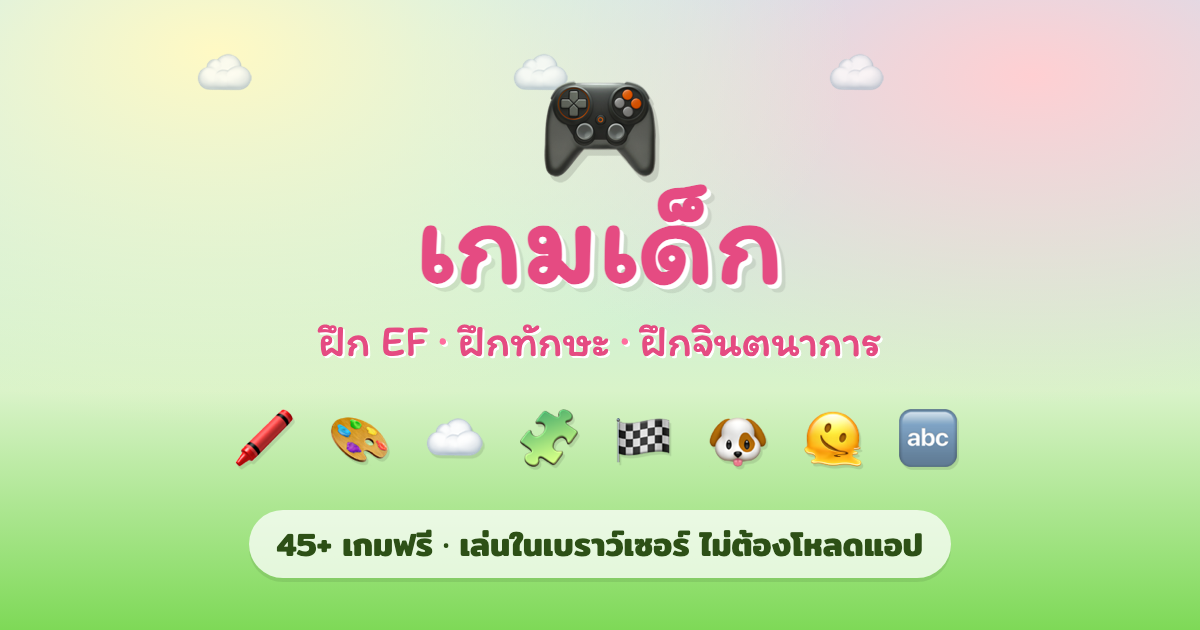
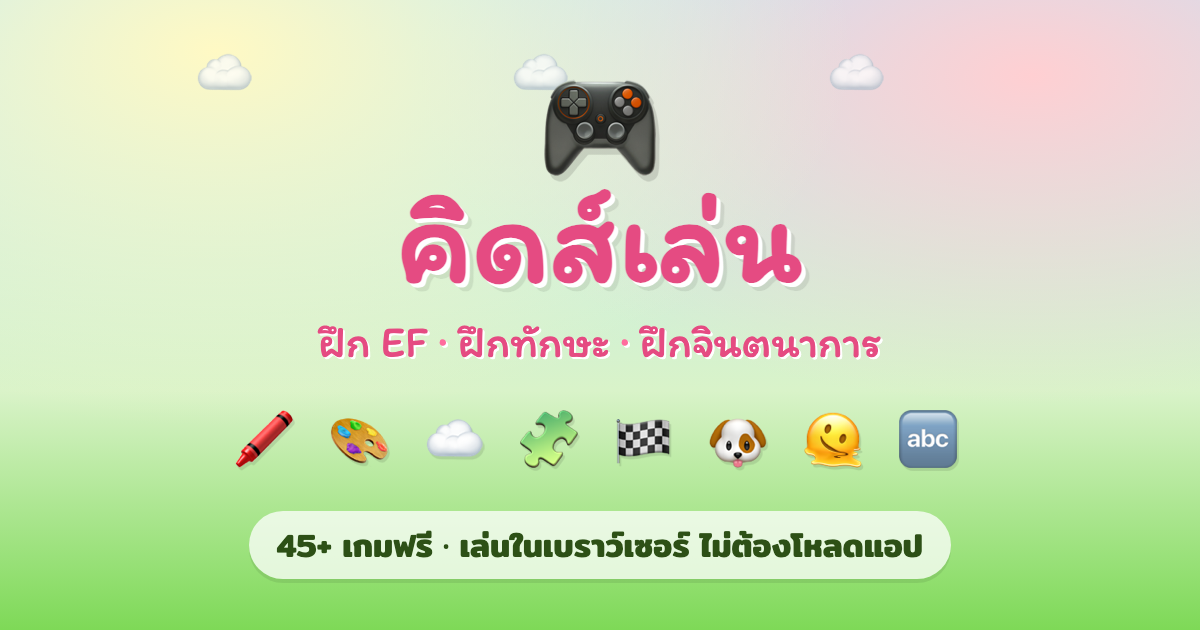
name the hub "คิดส์เล่น" (was placeholder "เกมเด็ก")
- index.html: title, hero <h1>, apple-mobile-web-app-title, and OG/Twitter
  (og:title, og:site_name, og:image:alt, twitter:title) -> คิดส์เล่น.
- manifest: name + short_name -> คิดส์เล่น.
- all 45 game <title>s: "— เกมสำหรับเด็ก" -> "— คิดส์เล่น" (brands every page).
- icons/og-cover.png: re-rendered share card with the new name.
- CLAUDE.md: record the decision.

sw.js: CACHE -> v77.

diff --git a/index.html b/index.html
@@ -3,27 +3,27 @@
 <head>
 <meta charset="UTF-8">
 <meta name="viewport" content="width=device-width, initial-scale=1.0, user-scalable=no, viewport-fit=cover">
-<title>🎮 เกมเด็ก — ฝึก EF ฝึกทักษะ ฝึกจินตนาการ</title>
+<title>🎮 คิดส์เล่น — ฝึก EF ฝึกทักษะ ฝึกจินตนาการ</title>
 <meta name="description" content="รวมเกมสำหรับเด็กไทย ฝึก EF (Executive Function) ฝึกทักษะ ฝึกจินตนาการ ฟรี เล่นในเบราว์เซอร์ ไม่ต้องโหลดแอป">
 <meta name="theme-color" content="#ff6b9d">
 <meta name="apple-mobile-web-app-capable" content="yes">
 <meta name="apple-mobile-web-app-status-bar-style" content="default">
-<meta name="apple-mobile-web-app-title" content="เกมเด็ก">
+<meta name="apple-mobile-web-app-title" content="คิดส์เล่น">
 <meta name="mobile-web-app-capable" content="yes">
 
 <meta property="og:type" content="website">
-<meta property="og:title" content="🎮 เกมเด็ก — ฝึก EF ฝึกทักษะ ฝึกจินตนาการ">
+<meta property="og:title" content="🎮 คิดส์เล่น — ฝึก EF ฝึกทักษะ ฝึกจินตนาการ">
 <meta property="og:description" content="รวมเกมสำหรับเด็กไทย ฝึก EF (Executive Function) ฝึกทักษะ ฝึกจินตนาการ ฟรี เล่นในเบราว์เซอร์ ไม่ต้องโหลดแอป">
 <meta property="og:url" content="https://leonlek.github.io/kid-mate/">
 <meta property="og:locale" content="th_TH">
-<meta property="og:site_name" content="เกมเด็ก">
+<meta property="og:site_name" content="คิดส์เล่น">
 <meta property="og:image" content="https://leonlek.github.io/kid-mate/icons/og-cover.png">
 <meta property="og:image:type" content="image/png">
 <meta property="og:image:width" content="1200">
 <meta property="og:image:height" content="630">
-<meta property="og:image:alt" content="เกมเด็ก — รวมเกมสำหรับเด็กไทย 45+ เกมฟรี">
+<meta property="og:image:alt" content="คิดส์เล่น — รวมเกมสำหรับเด็กไทย 45+ เกมฟรี">
 <meta name="twitter:card" content="summary_large_image">
-<meta name="twitter:title" content="🎮 เกมเด็ก — ฝึก EF ฝึกทักษะ ฝึกจินตนาการ">
+<meta name="twitter:title" content="🎮 คิดส์เล่น — ฝึก EF ฝึกทักษะ ฝึกจินตนาการ">
 <meta name="twitter:description" content="รวมเกมสำหรับเด็กไทย ฝึก EF ฝึกทักษะ ฝึกจินตนาการ ฟรี เล่นในเบราว์เซอร์ ไม่ต้องโหลดแอป">
 <meta name="twitter:image" content="https://leonlek.github.io/kid-mate/icons/og-cover.png">
 
@@ -258,7 +258,7 @@
 <body>
   <main class="hub">
     <header class="hero">
-      <h1>🎮 เกมเด็ก</h1>
+      <h1>🎮 คิดส์เล่น</h1>
       <div class="tagline">ฝึก EF<span class="dot">·</span>ฝึกทักษะ<span class="dot">·</span>ฝึกจินตนาการ</div>
       <p>เลือกหมวดที่อยากเล่น</p>
     </header>

diff --git a/crayon/index.html b/crayon/index.html
@@ -3,7 +3,7 @@
 <head>
 <meta charset="UTF-8">
 <meta name="viewport" content="width=device-width, initial-scale=1.0, user-scalable=no, viewport-fit=cover">
-<title>🖍 สมุดระบายสี — เกมสำหรับเด็ก</title>
+<title>🖍 สมุดระบายสี — คิดส์เล่น</title>
 <meta name="description" content="สมุดภาพระบายสีเทียนซีนใหญ่เต็มจอ ระบายเหมือนจริง มีปากกาตามนิ้ว สัตว์ รถไฟ ช้าง ปลา ไดโนเสาร์ อวกาศ ฟาร์ม บ้าน ทะเล ทั้งแนวตั้งและแนวนอน">
 <meta name="theme-color" content="#ff6b9d">
 <meta name="apple-mobile-web-app-capable" content="yes">

diff --git a/write-cjk/index.html b/write-cjk/index.html
@@ -10,7 +10,7 @@
 <head>
 <meta charset="UTF-8">
 <meta name="viewport" content="width=device-width, initial-scale=1.0, user-scalable=no, viewport-fit=cover">
-<title>✏ เขียนจีน-ญี่ปุ่น — เกมสำหรับเด็ก</title>
+<title>✏ เขียนจีน-ญี่ปุ่น — คิดส์เล่น</title>
 <meta name="description" content="หัดเขียนตัวอักษรจีนและญี่ปุ่นง่ายๆ ลากนิ้วทับเส้น เลข 一-十 คำภาพ 山 木 火 และฮิรางานะ พร้อมคำอ่านให้ผู้ปกครองอ่านให้ฟัง">
 <meta name="theme-color" content="#ff6b9d">
 <meta name="apple-mobile-web-app-capable" content="yes">

diff --git a/dough/index.html b/dough/index.html
@@ -3,7 +3,7 @@
 <head>
 <meta charset="UTF-8">
 <meta name="viewport" content="width=device-width, initial-scale=1.0, user-scalable=no, viewport-fit=cover">
-<title>🍪 ดินน้ำมัน — เกมสำหรับเด็ก</title>
+<title>🍪 ดินน้ำมัน — คิดส์เล่น</title>
 <meta name="description" content="ปั้นดินน้ำมัน กดพิมพ์คุกกี้รูปหัวใจ ดาว ดอกไม้ โรยเม็ดน้ำตาล คลึงเป็นเส้นงู กดให้เด้ง มีเสียงนุ่มๆ เล่นเพลินสำหรับเด็กเล็ก">
 <meta name="theme-color" content="#ff6b9d">
 <meta name="apple-mobile-web-app-capable" content="yes">

diff --git a/clouds/index.html b/clouds/index.html
@@ -3,7 +3,7 @@
 <head>
 <meta charset="UTF-8">
 <meta name="viewport" content="width=device-width, initial-scale=1.0, user-scalable=no, viewport-fit=cover">
-<title>☁ ปั้นเมฆ — เกมสำหรับเด็ก</title>
+<title>☁ ปั้นเมฆ — คิดส์เล่น</title>
 <meta name="description" content="ลากนิ้วให้ควันฟุ้งเป็นก้อนเมฆนุ่มๆ บนท้องฟ้า เปลี่ยนสีเมฆ เป่าลมพัดเมฆ ทำฝนตก มีเสียงลมนุ่มๆ เล่นเพลินสำหรับเด็กเล็ก">
 <meta name="theme-color" content="#ff6b9d">
 <meta name="apple-mobile-web-app-capable" content="yes">

diff --git a/look-draw/index.html b/look-draw/index.html
@@ -3,7 +3,7 @@
 <head>
 <meta charset="UTF-8">
 <meta name="viewport" content="width=device-width, initial-scale=1.0, user-scalable=no, viewport-fit=cover">
-<title>👀 ดูแล้ววาด — เกมสำหรับเด็ก</title>
+<title>👀 ดูแล้ววาด — คิดส์เล่น</title>
 <meta name="description" content="ดูรูปตัวอย่างที่มุมจอ แล้ววาดเองอิสระบนกระดาน ฝึกสังเกตและวาดตามแบบ มีบ้าน รถไฟ สะพานข้ามทางรถไฟ และอีกมากมาย">
 <meta name="theme-color" content="#ff6b9d">
 <meta name="apple-mobile-web-app-capable" content="yes">

diff --git a/slime/index.html b/slime/index.html
@@ -3,7 +3,7 @@
 <head>
 <meta charset="UTF-8">
 <meta name="viewport" content="width=device-width, initial-scale=1.0, user-scalable=no, viewport-fit=cover">
-<title>🫠 สไลม์ — เกมสำหรับเด็ก</title>
+<title>🫠 สไลม์ — คิดส์เล่น</title>
 <meta name="description" content="ก้อนสไลม์เด้งดึ๋ง จิ้ม ลาก บีบเล่น เปลี่ยนสี โรยกากเพชร ติดตา จิ้มฟองให้แตก มีเสียงบีบน่ารัก เล่นเพลินสำหรับเด็กเล็ก">
 <meta name="theme-color" content="#ff6b9d">
 <meta name="apple-mobile-web-app-capable" content="yes">

diff --git a/animal-race/index.html b/animal-race/index.html
@@ -3,7 +3,7 @@
 <head>
 <meta charset="UTF-8">
 <meta name="viewport" content="width=device-width, initial-scale=1.0, user-scalable=no, viewport-fit=cover">
-<title>🏁 แข่งความเร็ว — เกมสำหรับเด็ก</title>
+<title>🏁 แข่งความเร็ว — คิดส์เล่น</title>
 <meta name="description" content="เกมแข่งความเร็วสำหรับเด็ก เลือกสัตว์ รถ เครื่องบิน มาแข่งกันด้วยความเร็วจริง สนุก ฟรี ไม่ต้องโหลดแอป">
 <meta name="theme-color" content="#ff6b9d">
 <meta name="apple-mobile-web-app-capable" content="yes">

diff --git a/draw-along/index.html b/draw-along/index.html
@@ -3,7 +3,7 @@
 <head>
 <meta charset="UTF-8">
 <meta name="viewport" content="width=device-width, initial-scale=1.0, user-scalable=no, viewport-fit=cover">
-<title>🎨 วาดตามรอย — เกมสำหรับเด็ก</title>
+<title>🎨 วาดตามรอย — คิดส์เล่น</title>
 <meta name="description" content="หัดวาดรูปง่ายๆ ลากนิ้วตามเส้นประทีละเส้น จนได้ดาว หัวใจ แมว ปลา บ้าน ดอกไม้ ฝึกกล้ามเนื้อมือและจินตนาการ">
 <meta name="theme-color" content="#ff6b9d">
 <meta name="apple-mobile-web-app-capable" content="yes">

diff --git a/coloring/index.html b/coloring/index.html
@@ -3,7 +3,7 @@
 <head>
 <meta charset="UTF-8">
 <meta name="viewport" content="width=device-width, initial-scale=1.0, user-scalable=no, viewport-fit=cover">
-<title>🎨 แตะเติมสี — เกมสำหรับเด็ก</title>
+<title>🎨 แตะเติมสี — คิดส์เล่น</title>
 <meta name="description" content="เกมแตะเติมสี แตะช่องให้สีเต็มทันที ง่ายสำหรับเด็กเล็ก ฝึกรู้จักสีและส่วนต่างๆ ของภาพ">
 <meta name="theme-color" content="#ff6b9d">
 <meta name="apple-mobile-web-app-capable" content="yes">

diff --git a/paint/index.html b/paint/index.html
@@ -3,7 +3,7 @@
 <head>
 <meta charset="UTF-8">
 <meta name="viewport" content="width=device-width, initial-scale=1.0, user-scalable=no, viewport-fit=cover">
-<title>🖌 วาดรูป — เกมสำหรับเด็ก</title>
+<title>🖌 วาดรูป — คิดส์เล่น</title>
 <meta name="description" content="กระดานวาดรูประบายสีอิสระ มีจานสี แปรงสายรุ้ง แสตมป์ ถังเทสี ฝึกจินตนาการและการควบคุมนิ้ว">
 <meta name="theme-color" content="#ff6b9d">
 <meta name="apple-mobile-web-app-capable" content="yes">

diff --git a/odd-one-out/index.html b/odd-one-out/index.html
@@ -3,7 +3,7 @@
 <head>
 <meta charset="UTF-8">
 <meta name="viewport" content="width=device-width, initial-scale=1.0, user-scalable=no, viewport-fit=cover">
-<title>🔍 อันไหนไม่เข้าพวก — เกมสำหรับเด็ก</title>
+<title>🔍 อันไหนไม่เข้าพวก — คิดส์เล่น</title>
 <meta name="description" content="เกมหาสิ่งที่ไม่เข้าพวก ฝึกการสังเกตและการจัดหมวดหมู่สำหรับเด็ก">
 <meta name="theme-color" content="#ff6b9d">
 <meta name="apple-mobile-web-app-capable" content="yes">
